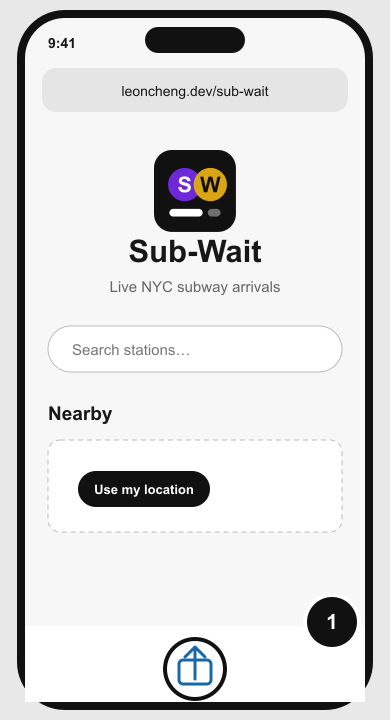
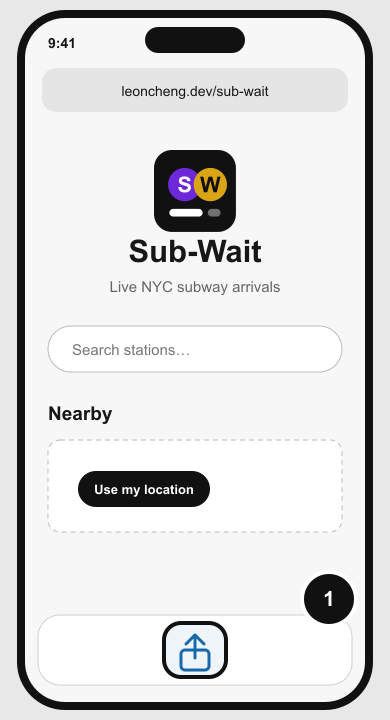
sub-wait: improve mobile navigation and install UI
- Add Install to the primary navbar
- Restructure the mobile masthead into two rows: brand/theme on top,
  four always-visible destinations below
- Replace theme text/emoji with consistent icon-only moon/sun SVGs
  while retaining accessible labels
- Redesign the expanded install reminder as a compact card with the
  S/W logo, clearer benefits, a guide CTA, and collapse chevron
- Replace the generic collapsed download glyph with the S/W app icon
  plus a small add badge
- Redraw the iPhone Safari Share control so it sits cleanly inside
  the illustrated phone toolbar
- Update navigation, theme, reminder, and guide tests

Closes #146

diff --git a/src/features/sub-wait/sub-wait.module.css b/src/features/sub-wait/sub-wait.module.css
@@ -48,8 +48,8 @@
 /* ── Masthead ─────────────────────────────────────────────────────────── */
 
 .masthead {
-  display: flex;
-  justify-content: space-between;
+  display: grid;
+  grid-template-columns: auto 1fr auto;
   align-items: center;
   gap: 1rem;
   padding-bottom: 0.75rem;
@@ -81,15 +81,10 @@
   letter-spacing: 0.1em;
 }
 
-.mastheadActions {
-  display: flex;
-  align-items: center;
-  gap: 0.75rem;
-}
-
 .mastheadNav {
   display: flex;
   align-items: center;
+  justify-self: end;
   gap: 0.75rem;
 }
 
@@ -110,16 +105,25 @@
 .themeToggle {
   display: inline-flex;
   align-items: center;
-  gap: 0.35rem;
-  padding: 0.35rem 0.65rem;
+  justify-content: center;
+  width: 2.5rem;
+  height: 2.15rem;
+  padding: 0;
   border: 1px solid var(--sw-line);
   border-radius: 999px;
   background: var(--sw-surface);
   color: var(--sw-ink-soft);
-  font: inherit;
-  font-size: 0.78rem;
-  font-weight: 600;
   cursor: pointer;
+}
+
+.themeToggle svg {
+  width: 1.15rem;
+  height: 1.15rem;
+  fill: none;
+  stroke: currentColor;
+  stroke-width: 1.8;
+  stroke-linecap: round;
+  stroke-linejoin: round;
 }
 
 .themeToggle:hover {
@@ -710,33 +714,48 @@
 /* ── PWA install hint ─────────────────────────────────────────────────── */
 
 .installHint {
-  display: flex;
+  display: grid;
+  grid-template-columns: auto minmax(0, 1fr) auto;
   align-items: center;
-  justify-content: space-between;
   gap: 0.65rem;
-  width: fit-content;
+  width: min(100%, 22rem);
   max-width: 100%;
   margin: 0.6rem 0 0 auto;
-  padding: 0.5rem 0.55rem 0.5rem 0.75rem;
+  padding: 0.6rem;
   border: 1px solid var(--sw-line);
-  border-radius: 999px;
+  border-radius: 0.85rem;
   background: var(--sw-surface);
+  box-shadow: 0 4px 14px rgba(0, 0, 0, 0.08);
   font-size: 0.78rem;
+}
+
+.installHintLogo {
+  border-radius: 9px;
 }
 
 .installHintCopy {
   display: flex;
-  align-items: baseline;
-  gap: 0.45rem;
+  flex-direction: column;
+  align-items: flex-start;
+  gap: 0.12rem;
+  min-width: 0;
+}
+
+.installHintCopy strong {
+  color: var(--sw-ink);
+  font-size: 0.82rem;
 }
 
 .installHintCopy span {
   color: var(--sw-muted);
+  font-size: 0.7rem;
 }
 
 .installHintCopy a {
   color: var(--sw-accent-strong);
+  font-size: 0.74rem;
   font-weight: 700;
+  text-underline-offset: 0.15em;
 }
 
 .installHint button {
@@ -755,6 +774,16 @@
   font-size: 0.78rem;
   font-weight: 600;
   cursor: pointer;
+}
+
+.installHint button svg {
+  width: 1rem;
+  height: 1rem;
+  fill: none;
+  stroke: currentColor;
+  stroke-width: 2;
+  stroke-linecap: round;
+  stroke-linejoin: round;
 }
 
 .installHint button:hover {
@@ -782,14 +811,36 @@
   cursor: pointer;
 }
 
-.installHintCollapsed svg {
-  width: 1.2rem;
-  height: 1.2rem;
-  fill: none;
-  stroke: currentColor;
-  stroke-width: 1.8;
-  stroke-linecap: round;
-  stroke-linejoin: round;
+.installHintLogoWrap {
+  position: relative;
+  display: block;
+  width: 1.6rem;
+  height: 1.6rem;
+}
+
+.installHintLogoWrap img {
+  display: block;
+  width: 100%;
+  height: 100%;
+  border-radius: 7px;
+}
+
+.installHintPlus {
+  position: absolute;
+  right: -0.25rem;
+  bottom: -0.2rem;
+  display: inline-flex;
+  align-items: center;
+  justify-content: center;
+  width: 0.85rem;
+  height: 0.85rem;
+  border: 2px solid var(--sw-surface);
+  border-radius: 999px;
+  background: var(--sw-ink);
+  color: var(--sw-bg);
+  font-size: 0.72rem;
+  font-weight: 800;
+  line-height: 1;
 }
 
 .installHintCollapsed button:hover {
@@ -888,8 +939,34 @@
 }
 
 @media (max-width: 640px) {
-  .installHintCopy span {
-    display: none;
+  .masthead {
+    grid-template-columns: 1fr auto;
+    column-gap: 0.75rem;
+    row-gap: 0.65rem;
+  }
+
+  .brand {
+    grid-column: 1;
+    grid-row: 1;
+  }
+
+  .themeToggle {
+    grid-column: 2;
+    grid-row: 1;
+  }
+
+  .mastheadNav {
+    grid-column: 1 / -1;
+    grid-row: 2;
+    justify-self: stretch;
+    justify-content: space-between;
+    gap: 0.5rem;
+    padding-top: 0.6rem;
+    border-top: 1px solid var(--sw-line);
+  }
+
+  .mastheadLink {
+    font-size: 0.8rem;
   }
 
   .installSteps {

diff --git a/src/features/sub-wait/routes/SubWaitRoute.tsx b/src/features/sub-wait/routes/SubWaitRoute.tsx
@@ -27,33 +27,37 @@ export default function SubWaitRoute(): ReactElement {
             <span className={styles.wordmark}>Sub-Wait</span>
             <span className={styles.betaBadge}>BETA</span>
           </Link>
-          <div className={styles.mastheadActions}>
-            <nav className={styles.mastheadNav} aria-label="Sub-Wait">
-              <NavLink
-                className={styles.mastheadLink}
-                to="/sub-wait/stations"
-              >
-                Stations
-              </NavLink>
-              <NavLink className={styles.mastheadLink} to="/sub-wait/map">
-                Map
-              </NavLink>
-              <NavLink
-                className={styles.mastheadLink}
-                to="/sub-wait/architecture"
-              >
-                Architecture
-              </NavLink>
-            </nav>
-            <button
-              type="button"
-              className={styles.themeToggle}
-              onClick={toggleTheme}
-              aria-label={`Switch to ${theme === 'dark' ? 'light' : 'dark'} mode`}
-            >
-              {theme === 'dark' ? '☀ Light' : '🌙 Dark'}
-            </button>
-          </div>
+          <nav className={styles.mastheadNav} aria-label="Sub-Wait">
+            <NavLink className={styles.mastheadLink} to="/sub-wait/stations">
+              Stations
+            </NavLink>
+            <NavLink className={styles.mastheadLink} to="/sub-wait/map">
+              Map
+            </NavLink>
+            <NavLink className={styles.mastheadLink} to="/sub-wait/install">
+              Install
+            </NavLink>
+            <NavLink className={styles.mastheadLink} to="/sub-wait/architecture">
+              Architecture
+            </NavLink>
+          </nav>
+          <button
+            type="button"
+            className={styles.themeToggle}
+            onClick={toggleTheme}
+            aria-label={`Switch to ${theme === 'dark' ? 'light' : 'dark'} mode`}
+          >
+            {theme === 'dark' ? (
+              <svg viewBox="0 0 24 24" aria-hidden="true">
+                <circle cx="12" cy="12" r="3.5" />
+                <path d="M12 2.5v2M12 19.5v2M2.5 12h2M19.5 12h2M5.3 5.3l1.4 1.4M17.3 17.3l1.4 1.4M18.7 5.3l-1.4 1.4M6.7 17.3l-1.4 1.4" />
+              </svg>
+            ) : (
+              <svg viewBox="0 0 24 24" aria-hidden="true">
+                <path d="M20 15.3A8.5 8.5 0 0 1 8.7 4a8.5 8.5 0 1 0 11.3 11.3Z" />
+              </svg>
+            )}
+          </button>
         </header>
         <SubWaitPwa />
 

diff --git a/src/features/sub-wait/components/SubWaitPwa.tsx b/src/features/sub-wait/components/SubWaitPwa.tsx
@@ -94,11 +94,10 @@ export default function SubWaitPwa(): ReactElement | null {
           onClick={() => setHintCollapsed(false)}
           aria-label="Open install instructions"
         >
-          <svg viewBox="0 0 24 24" aria-hidden="true">
-            <path d="M7 3.5h10a2 2 0 0 1 2 2v13a2 2 0 0 1-2 2H7a2 2 0 0 1-2-2v-13a2 2 0 0 1 2-2Z" />
-            <path d="M12 7v7m0 0-3-3m3 3 3-3" />
-            <path d="M10 17.5h4" />
-          </svg>
+          <span className={styles.installHintLogoWrap} aria-hidden="true">
+            <img src={assetUrl('sub-wait/icon-v2.svg')} alt="" />
+            <span className={styles.installHintPlus}>+</span>
+          </span>
         </button>
       </aside>
     )
@@ -106,17 +105,26 @@ export default function SubWaitPwa(): ReactElement | null {
 
   return (
     <aside className={styles.installHint} aria-label="Install Sub-Wait">
+      <img
+        className={styles.installHintLogo}
+        src={assetUrl('sub-wait/icon-v2.svg')}
+        alt=""
+        width={36}
+        height={36}
+      />
       <div className={styles.installHintCopy}>
-        <strong>Install Sub-Wait</strong>
-        <span>Keep train times one tap away.</span>
-        <a href={assetUrl('sub-wait/install')}>iPhone &amp; Android steps</a>
+        <strong>Add Sub-Wait to your phone</strong>
+        <span>Full-screen train times, no app store.</span>
+        <a href={assetUrl('sub-wait/install')}>Open installation guide →</a>
       </div>
       <button
         type="button"
         onClick={() => setHintCollapsed(true)}
         aria-label="Collapse install instructions"
       >
-        <span aria-hidden="true">−</span>
+        <svg viewBox="0 0 20 20" aria-hidden="true">
+          <path d="m6 12 4-4 4 4" />
+        </svg>
       </button>
     </aside>
   )

diff --git a/src/features/sub-wait/components/SubWaitPwa.test.tsx b/src/features/sub-wait/components/SubWaitPwa.test.tsx
@@ -53,8 +53,8 @@ describe('SubWaitPwa', () => {
     })
 
     render(<SubWaitPwa />)
-    expect(screen.getByText('Install Sub-Wait')).toBeInTheDocument()
-    expect(screen.getByRole('link', { name: /iPhone & Android steps/ })).toHaveAttribute(
+    expect(screen.getByText('Add Sub-Wait to your phone')).toBeInTheDocument()
+    expect(screen.getByRole('link', { name: /Open installation guide/ })).toHaveAttribute(
       'href',
       '/sub-wait/install',
     )
@@ -62,7 +62,7 @@ describe('SubWaitPwa', () => {
     fireEvent.click(
       screen.getByRole('button', { name: 'Collapse install instructions' }),
     )
-    expect(screen.queryByText('Install Sub-Wait')).not.toBeInTheDocument()
+    expect(screen.queryByText('Add Sub-Wait to your phone')).not.toBeInTheDocument()
     expect(
       screen.getByRole('button', { name: 'Open install instructions' }),
     ).toBeInTheDocument()
@@ -73,7 +73,7 @@ describe('SubWaitPwa', () => {
     fireEvent.click(
       screen.getByRole('button', { name: 'Open install instructions' }),
     )
-    expect(screen.getByText('Install Sub-Wait')).toBeInTheDocument()
+    expect(screen.getByText('Add Sub-Wait to your phone')).toBeInTheDocument()
     expect(window.localStorage.getItem('sub-wait-install-hint-collapsed')).toBe(
       'false',
     )

diff --git a/src/features/sub-wait/routes/install-route.test.tsx b/src/features/sub-wait/routes/install-route.test.tsx
@@ -1,4 +1,4 @@
-import { render, screen } from '@testing-library/react'
+import { render, screen, within } from '@testing-library/react'
 import { MemoryRouter, Route, Routes } from 'react-router-dom'
 import { beforeEach, describe, expect, it } from 'vitest'
 import SubWaitRoute from './SubWaitRoute'
@@ -43,9 +43,19 @@ describe('InstallRoute', () => {
         </Routes>
       </MemoryRouter>,
     )
-    expect(screen.getByRole('link', { name: 'Install' })).toHaveAttribute(
+    expect(
+      within(screen.getByRole('contentinfo')).getByRole('link', {
+        name: 'Install',
+      }),
+    ).toHaveAttribute(
       'href',
       '/sub-wait/install',
     )
+    expect(
+      within(screen.getByRole('navigation', { name: 'Sub-Wait' })).getByRole(
+        'link',
+        { name: 'Install' },
+      ),
+    ).toHaveAttribute('href', '/sub-wait/install')
   })
 })

diff --git a/src/features/sub-wait/routes/sub-wait-route.test.tsx b/src/features/sub-wait/routes/sub-wait-route.test.tsx
@@ -168,9 +168,12 @@ describe('SubWaitRoute', () => {
     const initialTheme = page.dataset.theme
     expect(initialTheme === 'light' || initialTheme === 'dark').toBe(true)
 
-    await user.click(
-      screen.getByRole('button', { name: /Switch to (light|dark) mode/ }),
-    )
+    const toggle = screen.getByRole('button', {
+      name: /Switch to (light|dark) mode/,
+    })
+    expect(toggle).toHaveTextContent('')
+
+    await user.click(toggle)
     expect(page.dataset.theme).not.toBe(initialTheme)
     expect(window.localStorage.getItem('sub-wait-theme')).toBe(
       page.dataset.theme,
